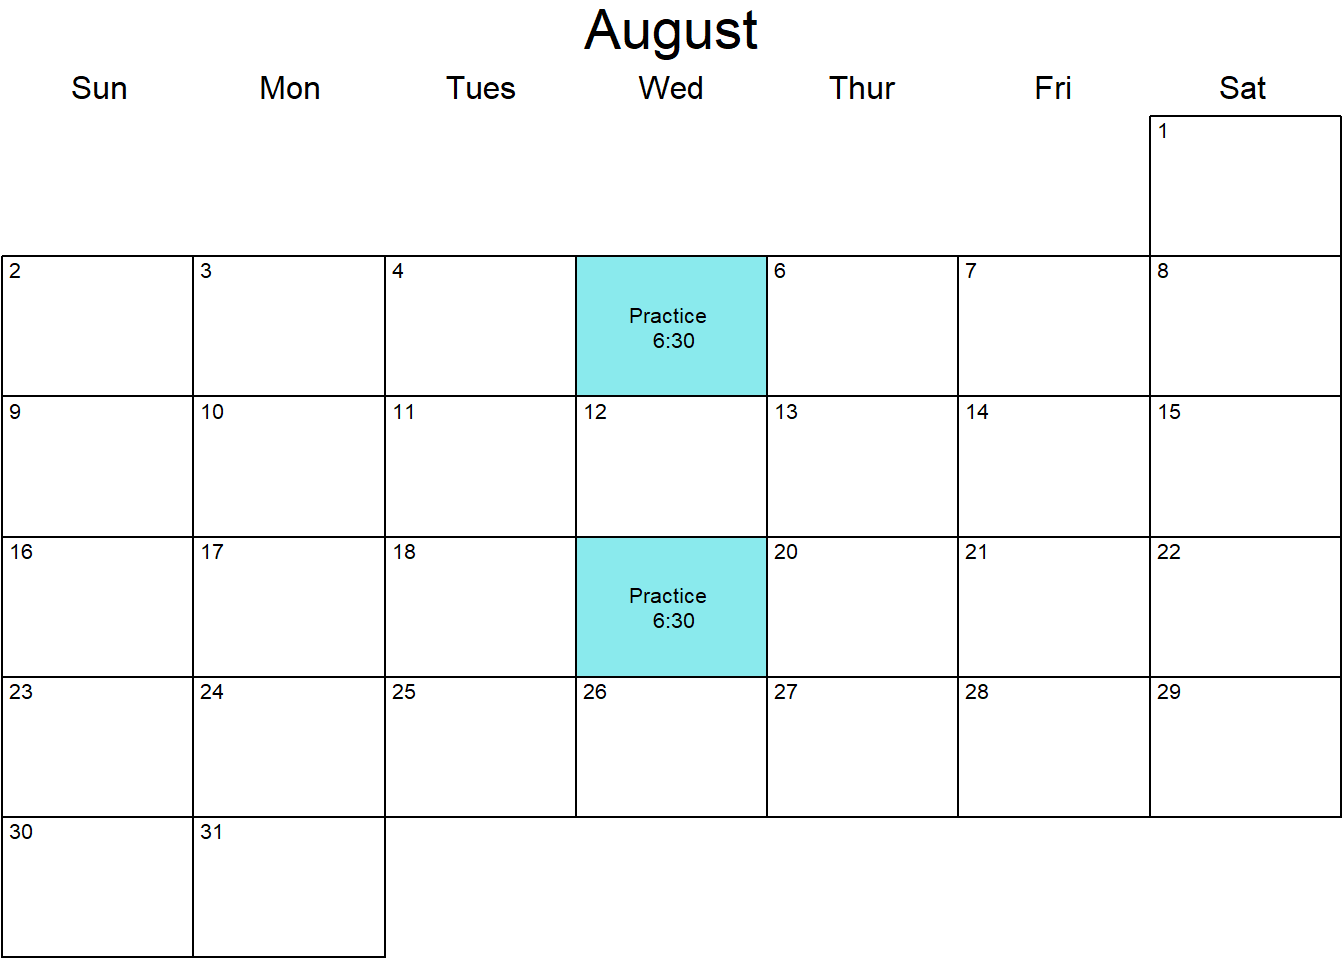
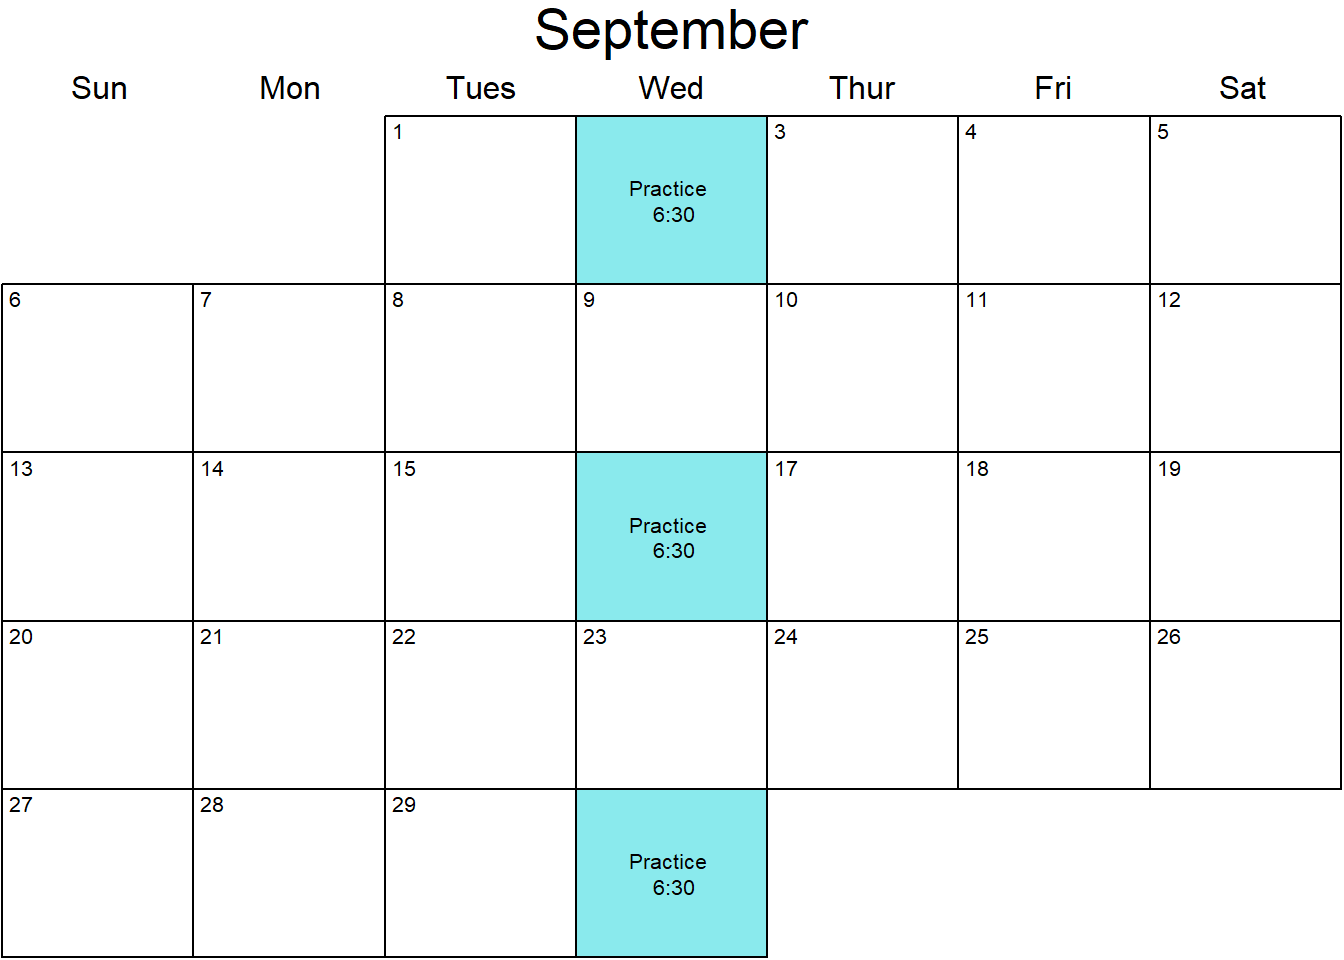
calendar update

diff --git a/docs/phantazee.html b/docs/phantazee.html
@@ -335,8 +335,8 @@ ul.task-list li input[type="checkbox"] {
 <div id="fig-chord" class="cell-output-display quarto-float quarto-figure quarto-figure-center anchored">
 <figure class="quarto-float quarto-float-fig figure">
 <div aria-describedby="fig-chord-caption-0ceaefa1-69ba-4598-a22c-09a6ac19f8ca">
-<div class="chorddiag html-widget html-fill-item-overflow-hidden html-fill-item" id="htmlwidget-69fb30c36b13987b880a" style="width:100%;height:464px;"></div>
-<script type="application/json" data-for="htmlwidget-69fb30c36b13987b880a">{"x":{"matrix":[[0,1,2,0,0,0,0,2,0,0,0,0],[0,0,0,0,0,0,0,0,0,0,0,0],[3,0,0,0,0,0,0,1,2,0,0,0],[0,0,0,0,0,0,0,0,0,0,0,0],[0,0,0,0,0,0,0,0,0,0,0,0],[0,2,0,0,0,0,0,0,0,0,0,0],[0,0,0,0,0,0,0,0,0,0,0,0],[2,0,0,0,0,0,0,0,0,0,0,0],[0,0,2,0,0,0,0,0,0,0,0,0],[0,0,0,0,0,0,0,0,0,0,0,0],[0,0,0,0,0,0,0,0,0,0,0,0],[0,0,0,0,0,0,0,0,0,0,0,0]],"options":{"type":"directional","width":null,"height":null,"margin":100,"showGroupnames":true,"groupNames":["Travis","Strauss","Kyle","K&G","John-o","Jeff","Jason","Jake","Gary","Dave","Chirag","Brian"],"groupColors":["#1B9E77","#D95F02","#7570B3","#E7298A","#66A61E","#E6AB02","#A6761D","#666666"],"groupThickness":0.1,"groupPadding":0.03490658503988659,"groupnamePadding":[20,20,20,20,20,20,20,20,20,20,20,20],"groupnameFontsize":18,"groupedgeColor":null,"chordedgeColor":"#808080","categoryNames":null,"categorynamePadding":100,"categorynameFontsize":28,"showTicks":true,"tickInterval":0.1,"ticklabelFontsize":10,"fadeLevel":0.1,"showTooltips":true,"showZeroTooltips":true,"tooltipNames":["Travis","Strauss","Kyle","K&G","John-o","Jeff","Jason","Jake","Gary","Dave","Chirag","Brian"],"tooltipFontsize":12,"tooltipUnit":"","tooltipGroupConnector":" &#x25B6; ","precision":"null","clickAction":null,"clickGroupAction":null}},"evals":[],"jsHooks":[]}</script>
+<div class="chorddiag html-widget html-fill-item-overflow-hidden html-fill-item" id="htmlwidget-c2630fdc05187c26a7bf" style="width:100%;height:464px;"></div>
+<script type="application/json" data-for="htmlwidget-c2630fdc05187c26a7bf">{"x":{"matrix":[[0,1,2,0,0,0,0,2,0,0,0,0],[0,0,0,0,0,0,0,0,0,0,0,0],[3,0,0,0,0,0,0,1,2,0,0,0],[0,0,0,0,0,0,0,0,0,0,0,0],[0,0,0,0,0,0,0,0,0,0,0,0],[0,2,0,0,0,0,0,0,0,0,0,0],[0,0,0,0,0,0,0,0,0,0,0,0],[2,0,0,0,0,0,0,0,0,0,0,0],[0,0,2,0,0,0,0,0,0,0,0,0],[0,0,0,0,0,0,0,0,0,0,0,0],[0,0,0,0,0,0,0,0,0,0,0,0],[0,0,0,0,0,0,0,0,0,0,0,0]],"options":{"type":"directional","width":null,"height":null,"margin":100,"showGroupnames":true,"groupNames":["Travis","Strauss","Kyle","K&G","John-o","Jeff","Jason","Jake","Gary","Dave","Chirag","Brian"],"groupColors":["#1B9E77","#D95F02","#7570B3","#E7298A","#66A61E","#E6AB02","#A6761D","#666666"],"groupThickness":0.1,"groupPadding":0.03490658503988659,"groupnamePadding":[20,20,20,20,20,20,20,20,20,20,20,20],"groupnameFontsize":18,"groupedgeColor":null,"chordedgeColor":"#808080","categoryNames":null,"categorynamePadding":100,"categorynameFontsize":28,"showTicks":true,"tickInterval":0.1,"ticklabelFontsize":10,"fadeLevel":0.1,"showTooltips":true,"showZeroTooltips":true,"tooltipNames":["Travis","Strauss","Kyle","K&G","John-o","Jeff","Jason","Jake","Gary","Dave","Chirag","Brian"],"tooltipFontsize":12,"tooltipUnit":"","tooltipGroupConnector":" &#x25B6; ","precision":"null","clickAction":null,"clickGroupAction":null}},"evals":[],"jsHooks":[]}</script>
 </div>
 <figcaption class="quarto-float-caption-bottom quarto-float-caption quarto-float-fig" id="fig-chord-caption-0ceaefa1-69ba-4598-a22c-09a6ac19f8ca">
 Figure&nbsp;1: Total drapht pick trades (2026–) Chord diagram
@@ -354,7 +354,7 @@ Note
 </div>
 </div>
 <div class="callout-body-container callout-body">
-<p><a href="#fig-chord" class="quarto-xref">Figure&nbsp;1</a> trade chart as of July, 2026 – <code>Name (total):</code> value only reflects <u>incoming</u> picks – true total number of overall picks swapped is not reflected in the <code>Name (total):</code> “hover” reported number</p>
+<p><a href="#fig-chord" class="quarto-xref">Figure&nbsp;1</a> trade chart as of August, 2026 – <code>Name (total):</code> value only reflects <u>incoming</u> picks – true total number of overall picks swapped is not reflected in the <code>Name (total):</code> “hover” reported number</p>
 </div>
 </div>
 <div class="cell" data-layout-align="default">

diff --git a/docs/discography.html b/docs/discography.html
@@ -346,8 +346,8 @@ ul.task-list li input[type="checkbox"] {
 <h2 class="anchored" data-anchor-id="songs-played">Songs played</h2>
 <div class="cell">
 <div class="cell-output-display">
-<div class="datatables html-widget html-fill-item-overflow-hidden html-fill-item" id="htmlwidget-6ea7131163a434114dc0" style="width:100%;height:auto;"></div>
-<script type="application/json" data-for="htmlwidget-6ea7131163a434114dc0">{"x":{"filter":"none","vertical":false,"data":[["Peter Gunn Theme","Sharp Dressed Man","Workin' Man Blues","Night of the Living Chimichanga","Hot Tub","Tight Pants","Mary had a Little Lamb","Folsom Prison","Color of Her Eyes","Stuck in the Middle with You","Eastbound &amp; Down","Cream","Keep your Hands to Yourself","Fast as You"],[" Henry Mancini","ZZ Top","Merle Haggard","The Crawlers","Kitty Wampas","Howard &amp; the White Boys"," Stevie Ray Vaughn"," Johnny Cash"," Gear Daddies"," Stealers Wheel"," Jerry Reed"," Prince"," Georgia Satelites"," Dwight Yoakam"]],"container":"<table class=\"display\">\n  <thead>\n    <tr>\n      <th>Song<\/th>\n      <th>Band<\/th>\n    <\/tr>\n  <\/thead>\n<\/table>","options":{"pageLength":5,"lengthMenu":[5,10,15,20,25],"columnDefs":[],"order":[],"autoWidth":false,"orderClasses":false}},"evals":[],"jsHooks":[]}</script>
+<div class="datatables html-widget html-fill-item-overflow-hidden html-fill-item" id="htmlwidget-58864d4975e8a79c689e" style="width:100%;height:auto;"></div>
+<script type="application/json" data-for="htmlwidget-58864d4975e8a79c689e">{"x":{"filter":"none","vertical":false,"data":[["Peter Gunn Theme","Sharp Dressed Man","Workin' Man Blues","Night of the Living Chimichanga","Hot Tub","Tight Pants","Mary had a Little Lamb","Folsom Prison","Color of Her Eyes","Stuck in the Middle with You","Eastbound &amp; Down","Cream","Keep your Hands to Yourself","Fast as You"],[" Henry Mancini","ZZ Top","Merle Haggard","The Crawlers","Kitty Wampas","Howard &amp; the White Boys"," Stevie Ray Vaughn"," Johnny Cash"," Gear Daddies"," Stealers Wheel"," Jerry Reed"," Prince"," Georgia Satelites"," Dwight Yoakam"]],"container":"<table class=\"display\">\n  <thead>\n    <tr>\n      <th>Song<\/th>\n      <th>Band<\/th>\n    <\/tr>\n  <\/thead>\n<\/table>","options":{"pageLength":5,"lengthMenu":[5,10,15,20,25],"columnDefs":[],"order":[],"autoWidth":false,"orderClasses":false}},"evals":[],"jsHooks":[]}</script>
 </div>
 </div>
 </section>

diff --git a/docs/calendar.html b/docs/calendar.html
@@ -334,9 +334,9 @@ ul.task-list li input[type="checkbox"] {
 </header>
 
 
-<p>Upcoming events as of July, 2026:</p>
+<p>Upcoming events as of August, 2026:</p>
 <div class="tabset-margin-container"></div><div class="panel-tabset">
-<ul class="nav nav-tabs" role="tablist"><li class="nav-item" role="presentation"><a class="nav-link active" id="tabset-1-1-tab" data-bs-toggle="tab" data-bs-target="#tabset-1-1" role="tab" aria-controls="tabset-1-1" aria-selected="true">July</a></li><li class="nav-item" role="presentation"><a class="nav-link" id="tabset-1-2-tab" data-bs-toggle="tab" data-bs-target="#tabset-1-2" role="tab" aria-controls="tabset-1-2" aria-selected="false">August</a></li><li class="nav-item" role="presentation"><a class="nav-link" id="tabset-1-3-tab" data-bs-toggle="tab" data-bs-target="#tabset-1-3" role="tab" aria-controls="tabset-1-3" aria-selected="false">September</a></li></ul>
+<ul class="nav nav-tabs" role="tablist"><li class="nav-item" role="presentation"><a class="nav-link active" id="tabset-1-1-tab" data-bs-toggle="tab" data-bs-target="#tabset-1-1" role="tab" aria-controls="tabset-1-1" aria-selected="true">August</a></li><li class="nav-item" role="presentation"><a class="nav-link" id="tabset-1-2-tab" data-bs-toggle="tab" data-bs-target="#tabset-1-2" role="tab" aria-controls="tabset-1-2" aria-selected="false">September</a></li><li class="nav-item" role="presentation"><a class="nav-link" id="tabset-1-3-tab" data-bs-toggle="tab" data-bs-target="#tabset-1-3" role="tab" aria-controls="tabset-1-3" aria-selected="false">October</a></li></ul>
 <div class="tab-content">
 <div id="tabset-1-1" class="tab-pane active" role="tabpanel" aria-labelledby="tabset-1-1-tab">
 <div class="cell">
